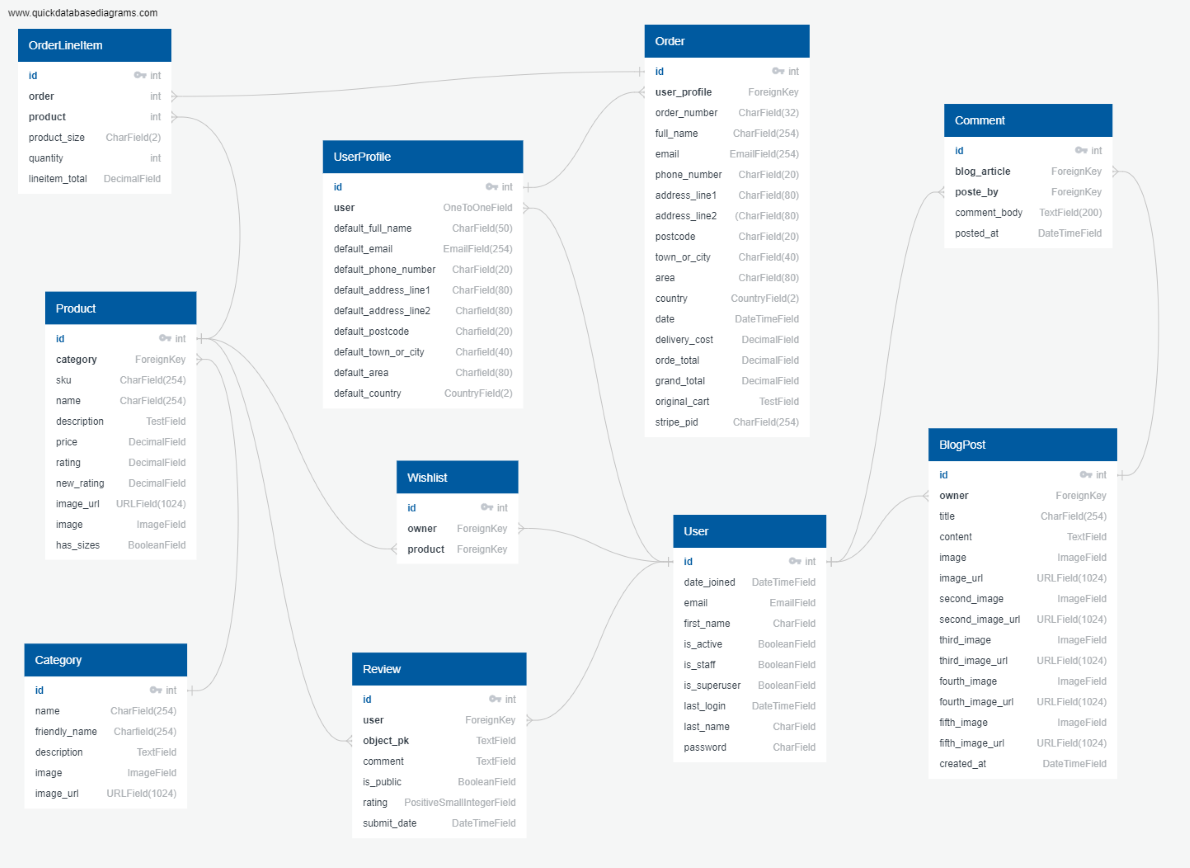
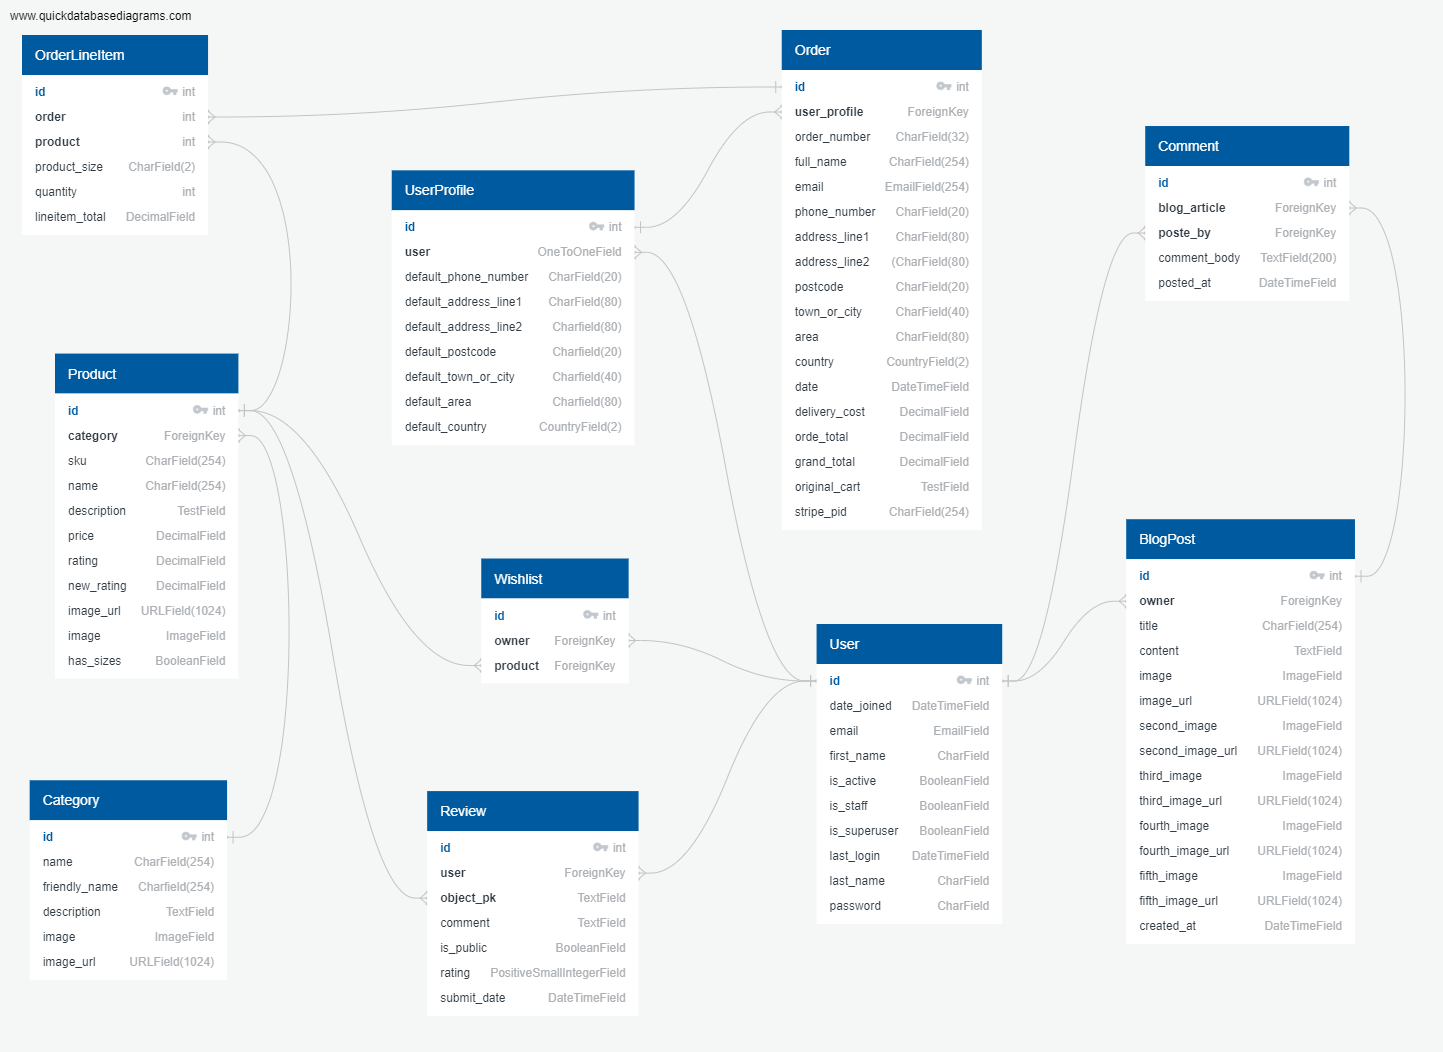
Doc(README): Update profile model  & db schemas

diff --git a/README.md b/README.md
@@ -334,8 +334,6 @@ Defined in the profiles app.
 
     - id int pk
     - user OneToOneField FK >- User.id
-    - default_full_name  CharField(50)
-    - default_email EmailField(254)
     - default_phone_number CharField(20)
     - default_address_line1 CharField(80)
     - default_address_line2 CharField(80)
